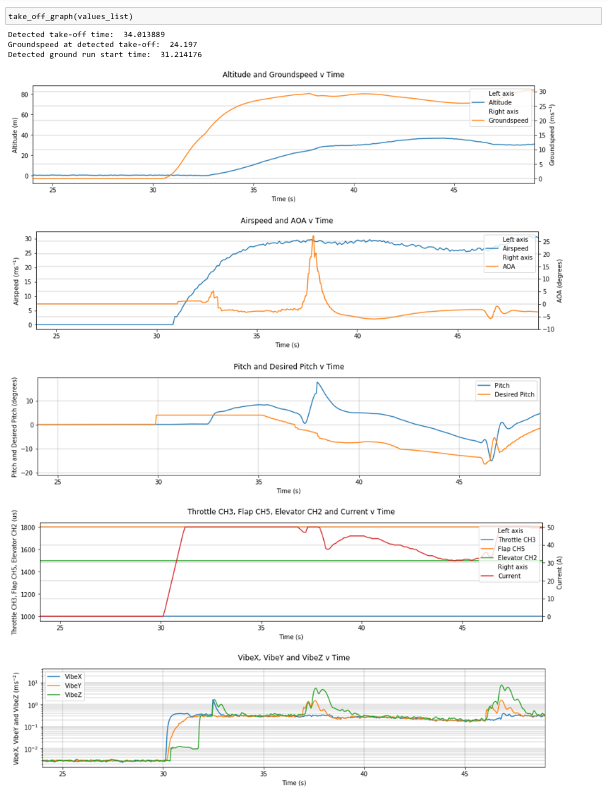
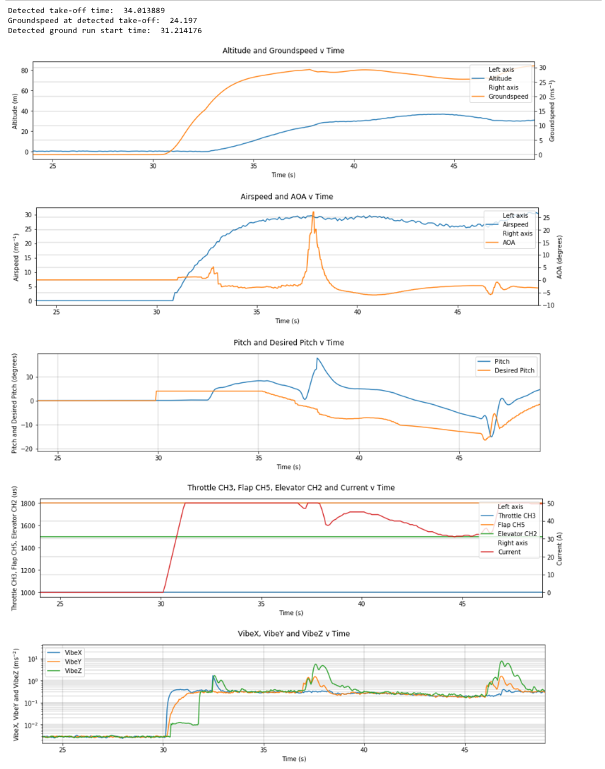
Code sections added as text 3

diff --git a/docs/examples.rst b/docs/examples.rst
@@ -205,21 +205,37 @@ Sample data::
 	
 
 
-For simply plotting the points on the map, only the location data and associated times are required:
+For simply plotting the points on the map, only the location data and associated times are required::
+
+	from autoflpy.util.plotting import backplt_map
+	figure = backplt_map(latitudes, longitudes, gps_time)
+	figure.show()
 
 .. image:: images/Ex_backplt_map1.png
 	:width: 900
 	:align: center
 	:alt: backplt_map use as a stand alone function.
 
-An additional variable can be added as the z_var (in this case, altitude data) as follows. This requires data and a corresponding time series that overlaps with the latitude/longitude data. A name and unit can be added as a string and should be an empty string if not desired. Print statements can also be removed using disable_prints=True.
+An additional variable can be added as the z_var (in this case, altitude data) as follows. This requires data and a corresponding time series that overlaps with the latitude/longitude data. A name and unit can be added as a string and should be an empty string if not desired. Print statements can also be removed using disable_prints=True.::
+
+	from autoflpy.util.plotting import backplt_map
+	figure = backplt_map(latitudes, longitudes, gps_time, z_var="Altitude",
+	z_var_data=altitude, z_var_time_data=altitude_time, z_var_unit="m",
+	disable_prints=True)
+	figure.show()
 
 .. image:: images/Ex_backplt_map2.png
 	:width: 900
 	:align: center
 	:alt: backplt_map use as a stand alone function with altitude data.
 
-Just as in the graph_plotter, outliers can also be marked on the plot by using the z_var_limits and entering a desired list containing an upper and lower bound.
+Just as in the graph_plotter, outliers can also be marked on the plot by using the z_var_limits and entering a desired list containing an upper and lower bound.::
+
+	from autoflpy.util.plotting import backplt_map
+	figure = backplt_map(latitudes, longitudes, gps_time, z_var="Altitude", 
+	z_var_data=altitude, z_var_time_data=altitude_time, z_var_unit="m",
+	z_var_limits=[20, 75], disable_prints=True)
+	figure.show()
 
 .. image:: images/Ex_backplt_map3.png
 	:width: 900
@@ -233,7 +249,9 @@ Take-off Graphs
 
 Take-off graphs can be generated using the take_off_graph function. This allows the user to quickly plot the variables that influence the take off of the UAV. In it's most basic form, this function detects the take off and plots 5 figures focused around the take-off. The take off point is gound using the GPS data provided. If the function does not automatically detect the take off it can be entered manually using the take_off_time argument. Sensitivity of the take-off detection can be adjusted in the alt_sensitivity and groundspeed_sensitivity arguments. Markers and arm data work as normally described.
 
-The following figure shows the use of this feature.
+The following figure shows the use of this feature.::
+
+	take_off_graph(values_list)
 
 .. image:: images/Ex_take_off.png
 	:width: 900
@@ -255,7 +273,12 @@ AutoFLpy allows for the user to compare multiple flights in the same Jupyter Not
 
 Variables are entered into the plotting functions as usual and plotted for both sets of data if present. Some functionality is reduced including the automated take-off detection (reverted to manual only) and plotting the arm data when plotting multiple flights simultaneously.
 
-To aid with the lining up of data, the time_x_offset argument can be added to the plot to allow the user to shift the data along the time axis. It should only be used in the first figure to be plotted and, as it directly edits the imported data, all subsequent figures will be plotted with the new data. This argument takes one number for each flight being plotted and subtracts this from the time data:
+To aid with the lining up of data, the time_x_offset argument can be added to the plot to allow the user to shift the data along the time axis. It should only be used in the first figure to be plotted and, as it directly edits the imported data, all subsequent figures will be plotted with the new data. This argument takes one number for each flight being plotted and subtracts this from the time data::
+
+	x_limits=["x_min", "x_max"]
+	y_limits=["y_min", "y_max"]
+	graph_plotter([["y", "altitude", "gps"], ["x", "time", "gps"]], 
+	values_list, x_limits, y_limits, marker_list, time_x_offset=[-32.5, -187.5])
 
 .. image:: images/Ex_time_x_offset.png
 	:width: 900
